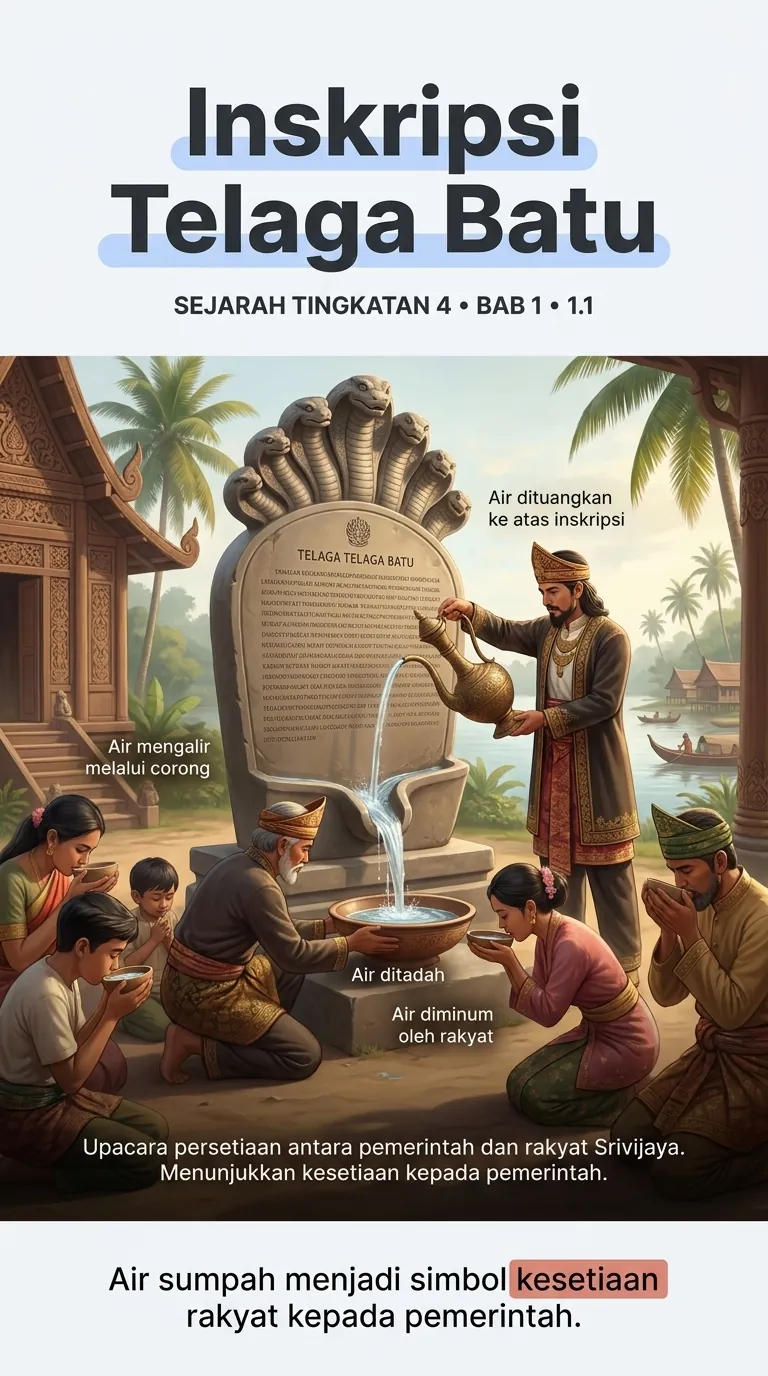
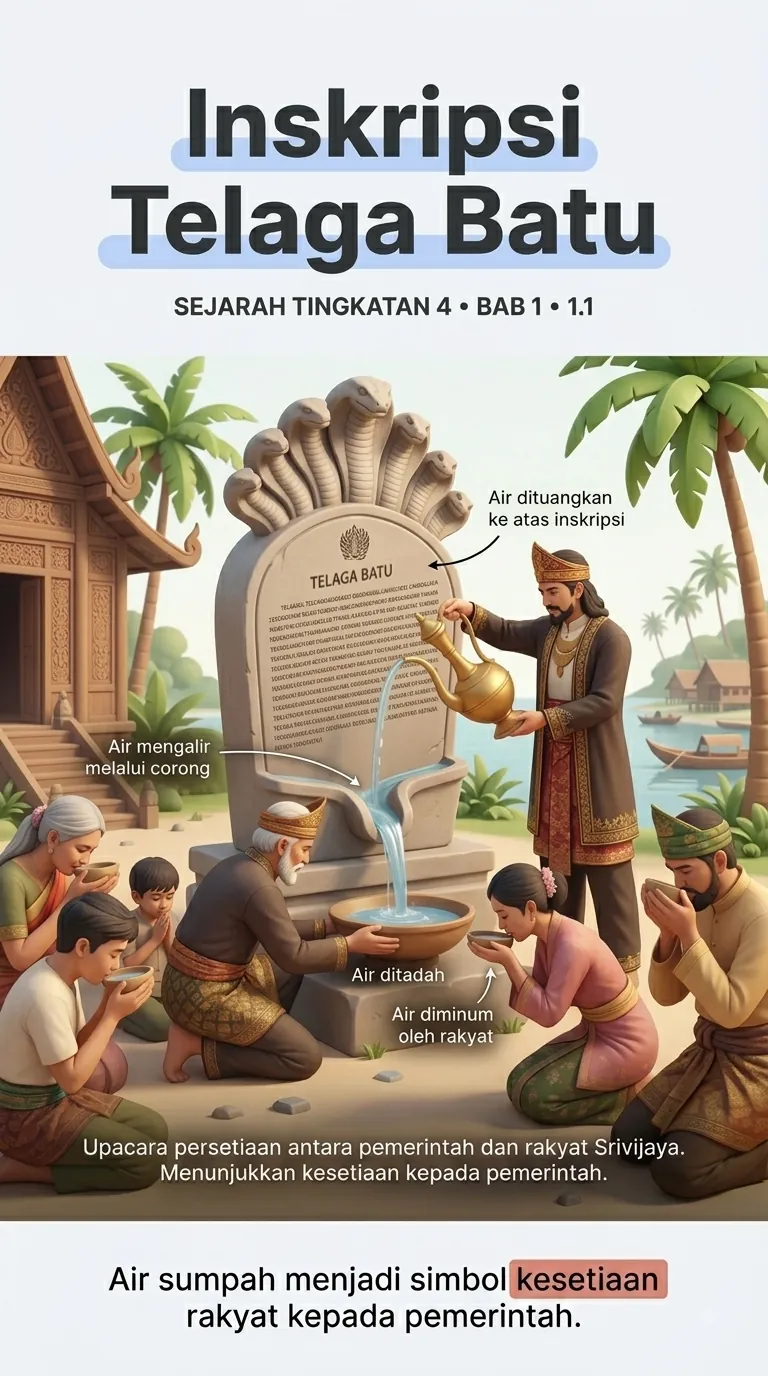
Kemas kini imej Inskripsi Telaga Batu (bab-1-1) drpd pengguna (#677)
* Kemas kini galeri infografik: buang kaunter/butang tutup, header kurang gelap, halang pull-to-refresh

- Buang paparan "N / 10" & butang X — gaya cerita IG/status WhatsApp
  sebenar tiada elemen ni, cuma dash progress bar di atas
- Kurangkan kegelapan scrim header (0.92→0.55 puncak) — teks tajuk
  sebelum ni kurang nampak/tak kemas pd sesetengah imej sumber;
  legibiliti kini bergantung lebih pd text-shadow drpd blok gelap
  pepejal
- Tambah #zym-infographic-overlay.is-open ke overlaysOpen() dlm
  setupZymPullToRefresh() — pull-to-refresh custom sebelum ni tak
  kenal overlay galeri terbuka (beza drpd search/mindmap/sparkle-panel
  yg dah disenaraikan), jadi tarik-turun dlm galeri cetus reload
  penuh & bawa pengguna keluar balik ke laman nota

* Asingkan cache imej infografik (MEDIA_CACHE) drpd cache app-shell — elak muat turun berulang tiap deploy

Isu skala ditemui semasa bincang peluasan galeri infografik ke lebih
banyak subtopik/bab: activate() sw.js padam SEMUA cache lama tiap kali
CACHE naik versi (berlaku setiap PR ubah CSS/JS, kerap dlm projek ni).
Imej infografik (~2MB/subtopik) sebelum ni turut tercache di bawah
CACHE biasa via peraturan generik "Same-origin GET: cache-first",
bermakna pelajar yg dah buka galeri terpaksa muat turun semula tiap
kali app-shell dikemas kini — defeat tujuan cache offline utk media
"berat, opt-in" ni.

Fix: laluan /assets/infographics/ kini dilayan cabang fetch berasingan,
[…]

diff --git a/assets/js/main.js b/assets/js/main.js
@@ -2426,7 +2426,9 @@ var HZ_INFOGRAPHIC_PAGES = {
     // PR "Gantikan galeri infografik bab-1-1 dgn gaya ilustrasi baharu".
     // Slaid 2 kini "Empat Perkara Utama" (pratonton 4 Bahagian, BUKAN
     // "Soalan Utama" asal — kandungan soalan utama digabung ke slaid 1).
-    imgVersion: 3,
+    // v4 (2026-08-13): 08-inskripsi-telaga-batu.webp diganti dgn versi
+    // baharu drpd pengguna.
+    imgVersion: 4,
     slides: [
       { file: '01-pengenalan.webp', alt: 'Muka hadapan: Sejarah Tingkatan 4, Bab 1 Warisan Negara Bangsa — Latar Belakang Negara Bangsa Sebelum Kedatangan Barat. Soalan Utama: Adakah konsep negara bangsa hanya wujud selepas kedatangan Barat? Jawapan: Tidak, asas negara bangsa telah berkembang melalui kemunculan kerajaan yang kuat dan berpengaruh' },
       { file: '02-empat-perkara-utama.webp', alt: 'Empat Perkara Utama: Proses Pembentukan Negara Bangsa, Kehebatan Kerajaan Alam Melayu, Empat Unsur Utama Negara Bangsa, Kesinambungan Negara Bangsa di Alam Melayu' },
